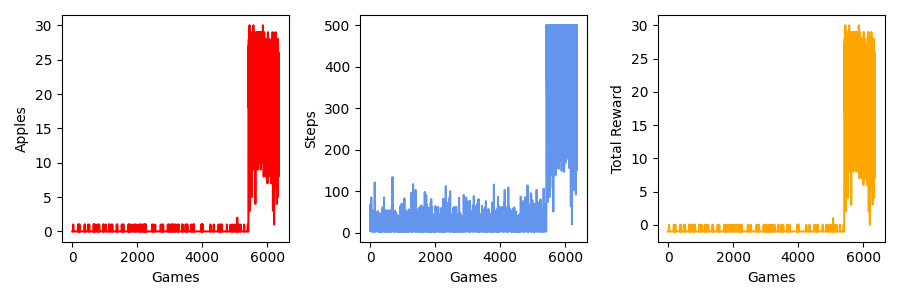
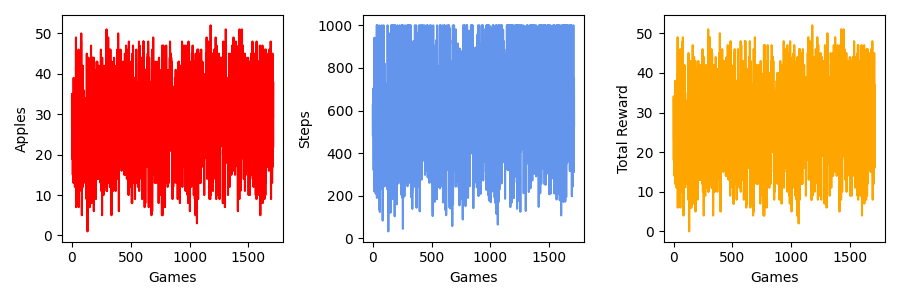
experimenting with larger memory and eager reduction

diff --git a/game_demo.py b/game_demo.py
@@ -60,10 +60,6 @@ def CNNModel(inputs):
     layer = MaxPooling2D(pool_size=(2, 2), padding='same')(layer)
     layer = Conv2D(128, kernel_size=(3, 3), activation="relu", padding='same')(layer)
     layer = Conv2D(128, kernel_size=(3, 3), activation="relu", padding='same')(layer)
-    layer = Flatten()(layer)
-    layer = Dense(128, activation='relu')(layer)
-    layer = BatchNormalization()(layer)
-    layer = Dropout(0.5)(layer)
     return layer
 
 
@@ -73,10 +69,9 @@ def snakeModel(state_shape, action_shape, optimizer, loss, cnn=False):
     layer = inputs
     if cnn:
         layer = CNNModel(inputs)
-    else:
-        layer = Flatten()(layer)
-    layer = Dense(64, input_shape=state_shape, activation='relu', kernel_initializer=init)(layer)
-    layer = Dense(32, activation='relu', kernel_initializer=init)(layer)
+    layer = Flatten()(layer)
+    layer = Dense(128, input_shape=state_shape, activation='relu', kernel_initializer=init)(layer)
+    layer = Dense(64, activation='relu', kernel_initializer=init)(layer)
     outputs = Dense(action_shape, activation='softmax', kernel_initializer=init)(layer)
     model = Model(inputs=inputs, outputs=outputs)
     model.compile(loss=loss, optimizer=optimizer, metrics=['accuracy'])
@@ -363,7 +358,7 @@ def generateMemory(length, scenarios):
                 step = step + 1
                 if example_count == round(length / 5):
                     heuristic_type = L_PATTERN
-                elif example_count == round(3 * length / 5):
+                elif example_count == round(2 * length / 5):
                     heuristic_type = DIAGONAL_PATTERN
                 if example_count == length:
                     not_filled = False
@@ -399,21 +394,20 @@ BATCHED_SHAPE = (1, WIDTH + 2 * BORDER, HEIGHT + 2 * BORDER, 3)
 POLICY = [-1, 0, 1]
 
 BATCH_SIZE = 64 * 2
-MEMORY_LENGTH = 50000
+MEMORY_LENGTH = 100000
 MIN_EPOCHS = 1000
 EPOCHS = 100
-MAX_STEPS = 500
+MAX_STEPS = 1000
 
 # TODO: experiment with different values for different heuristics
 MAX_EPSILON = 1
 MIN_EPSILON = 0.01
 DECAY_RATE = 0.01
 
-DISCOUNT = 0.618
+DISCOUNT = 0.99  # 0.618
 LEARNING_RATE = 0.001
 TARGET_DELAY = 100
 TRAIN_STEPS = 4
-
 
 RANDOM_PATTERN = 0
 L_PATTERN = 1
@@ -421,9 +415,10 @@ DIAGONAL_PATTERN = 2
 
 if __name__ == '__main__':
     os.makedirs(PATH, exist_ok=True)
-    #training_gif = imageio.get_writer(PATH + "/" + 'training.gif', mode='I')
+    training_gif = imageio.get_writer(PATH + "/" + 'training.gif', mode='I')
 
-    train_scenarios = [{'FOOD_AMOUNT': 1, 'MAX_GRASS': 0.2, 'GRASS_GROWTH': 0.0001},
+    train_scenarios = [{'FOOD_AMOUNT': 15, 'MAX_GRASS': 0.2, 'GRASS_GROWTH': 0.001},
+                       {'FOOD_AMOUNT': 10, 'MAX_GRASS': 0, 'GRASS_GROWTH': 0},
                        {'FOOD_AMOUNT': 5, 'MAX_GRASS': 0, 'GRASS_GROWTH': 0},
                        {'FOOD_AMOUNT': 1, 'MAX_GRASS': 0, 'GRASS_GROWTH': 0}]
 
@@ -446,16 +441,19 @@ if __name__ == '__main__':
     train_width = 32 - 2 * TRAIN_BORDER
     train_height = 32 - 2 * TRAIN_BORDER
     border_inc_interval = round(EPOCHS / (train_border - 1))
-
+    scenario = 0
     for epoch in tqdm(range(EPOCHS), desc="Training"):
         if epoch % border_inc_interval == 0 and epoch > 0:
             train_border -= 1
             train_height += 2
             train_width += 2
-        game = generateGame(train_scenarios[epoch % len(train_scenarios)], train_width, train_height, train_border)
-        # game = generateGame(train_scenarios[epoch % len(train_scenarios)])
-        # game = generateGame(train_scenarios[epoch % 2], train_width, train_height, train_border)
-        # game = generateGame(eval_scenario, train_width, train_height, train_border)
+        if epoch == round(EPOCHS / 4):
+            scenario = 1
+        elif epoch == round(2 * EPOCHS / 4):
+            scenario = 2
+        elif epoch == round(3 * EPOCHS / 4):
+            scenario = 3
+        game = generateGame(train_scenarios[scenario])
 
         board, reward, _, info = game.reset()
         total_apples = 0
@@ -463,13 +461,13 @@ if __name__ == '__main__':
         total_rewards = 0
         done = False
         while not done:
-            """
+
             if not done:
-                file_name = PATH + "/" + str(epoch) + "_" + str(steps) + ".png"
-                plot_board(file_name, board, str(epoch) + ", " + str(steps))
+                file_name = PATH + "/" + str(epoch) + "_" + str(total_steps) + ".png"
+                plot_board(file_name, board, str(epoch) + ", " + str(total_steps))
                 training_gif.append_data(imageio.imread(file_name))
                 os.remove(file_name)
-            """
+
             steps += 1
             total_steps += 1
             action = decide(snake, board, epsilon)
@@ -482,13 +480,6 @@ if __name__ == '__main__':
                 total_apples += 1
             board = next_board
             if done:
-                """
-                file_name = PATH + "/" + str(epoch) + "_" + str(steps) + ".png"
-                plot_board(file_name, board, str(epoch) + ", " + str(steps))
-                training_gif.append_data(imageio.imread(file_name))
-                training_gif.append_data(imageio.imread(file_name))
-                os.remove(file_name)
-                """
                 train_apples.append(total_apples)
                 train_steps.append(total_steps)
                 train_rewards.append(total_rewards)
